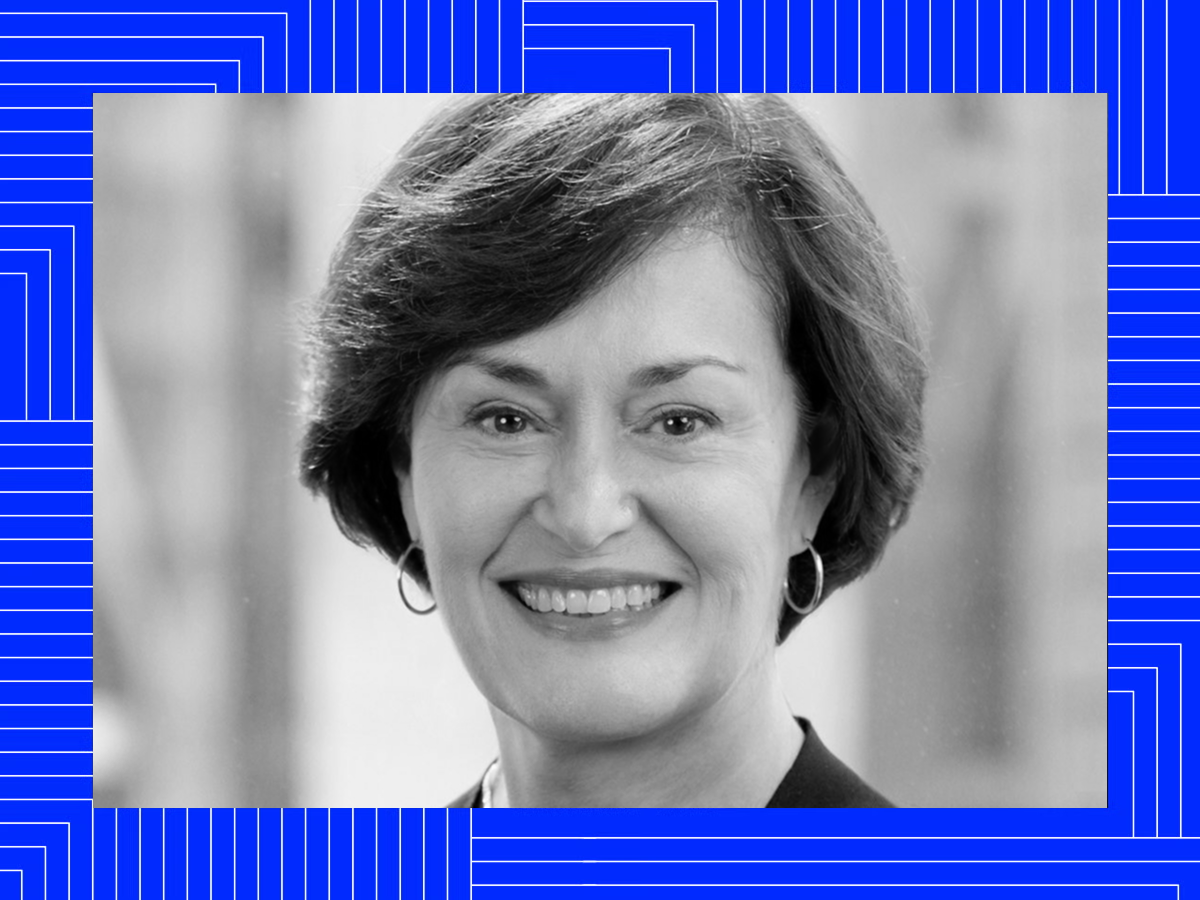
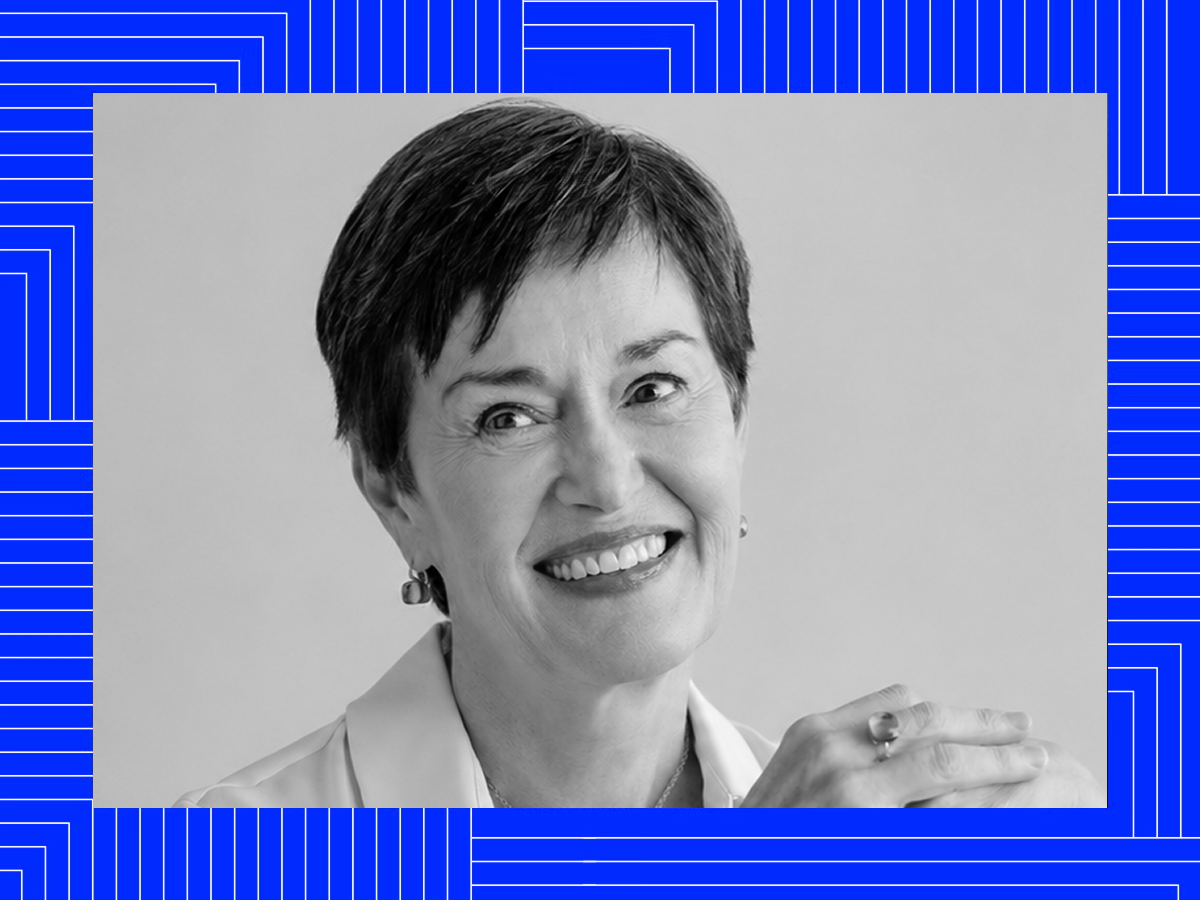
accounting cmo briefs, updated law headshots

diff --git a/src/lib/survey/surveyPosts.ts b/src/lib/survey/surveyPosts.ts
@@ -20,6 +20,10 @@ export const surveyPostDefinitions = [
     slug: '2026-consulting-cmos',
     load: () => import('$content/survey/entries/2026-consulting-cmos.svx')
   },
+  {
+    slug: '2026-accounting-cmos',
+    load: () => import('$content/survey/entries/2026-accounting-cmos.svx')
+  },
 ] as const satisfies readonly SurveyPostDefinition[];
 
 const formatSurveyDate = (publishedAt: string) => surveyDateFormatter.format(new Date(publishedAt));

diff --git a/src/lib/survey/SurveyLandingPage.svelte b/src/lib/survey/SurveyLandingPage.svelte
@@ -33,7 +33,7 @@
     },
     {
       label: "Last year's accounting firm CMOs ->",
-      href: '#'
+      href: '/annual-survey/2026-accounting-cmos'
     }
   ] as const;
 </script>